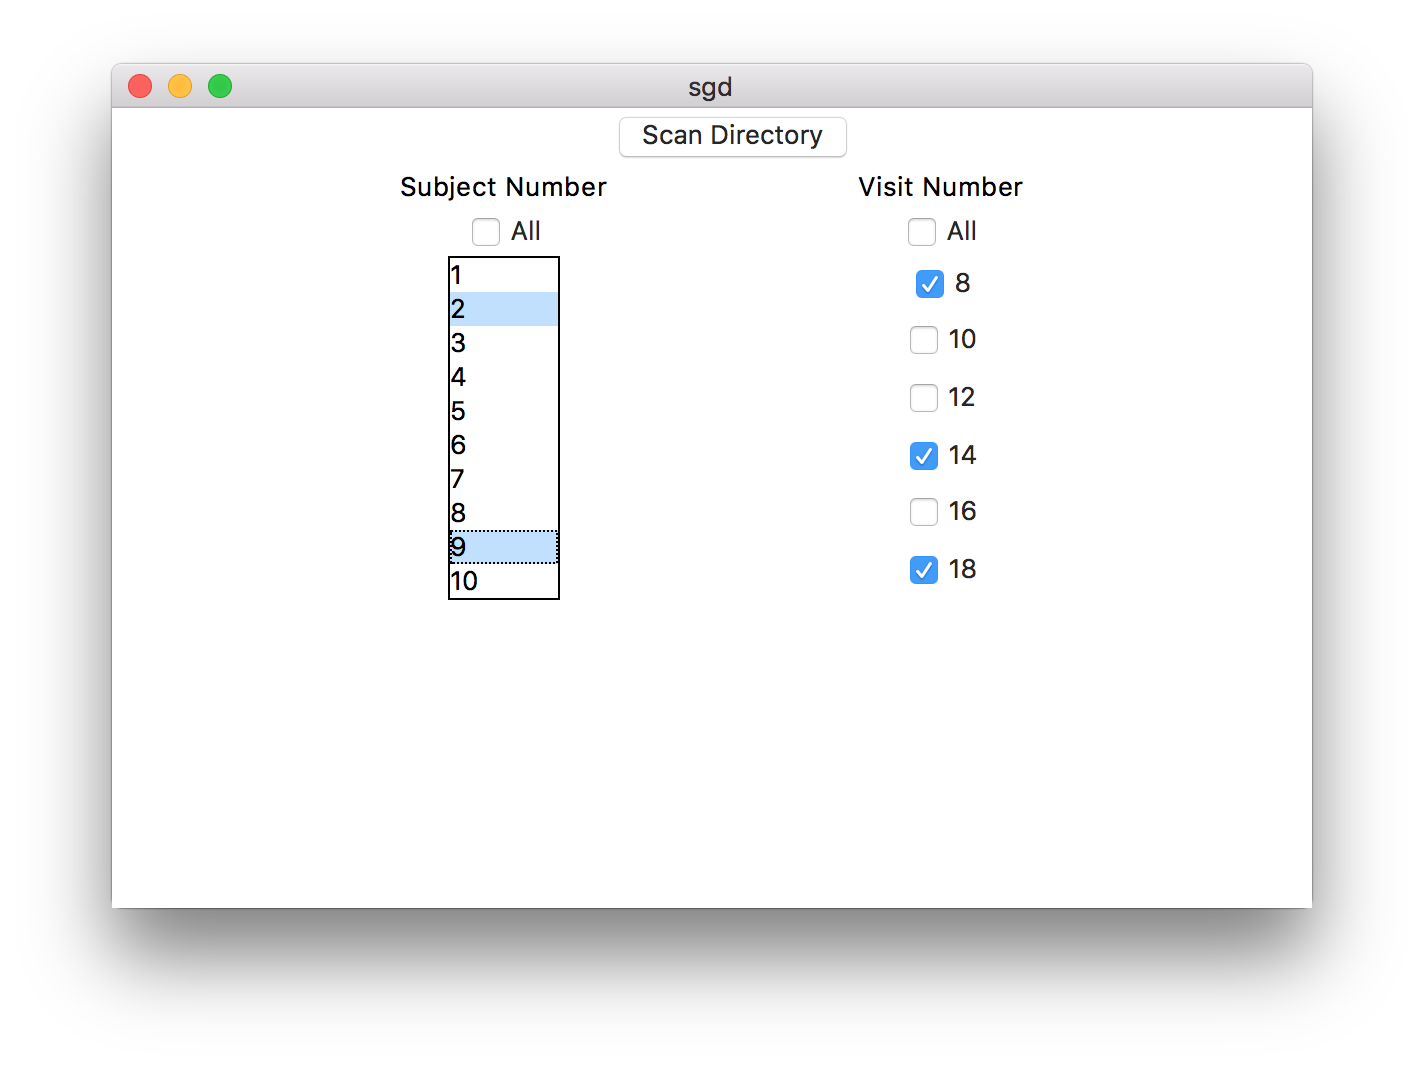
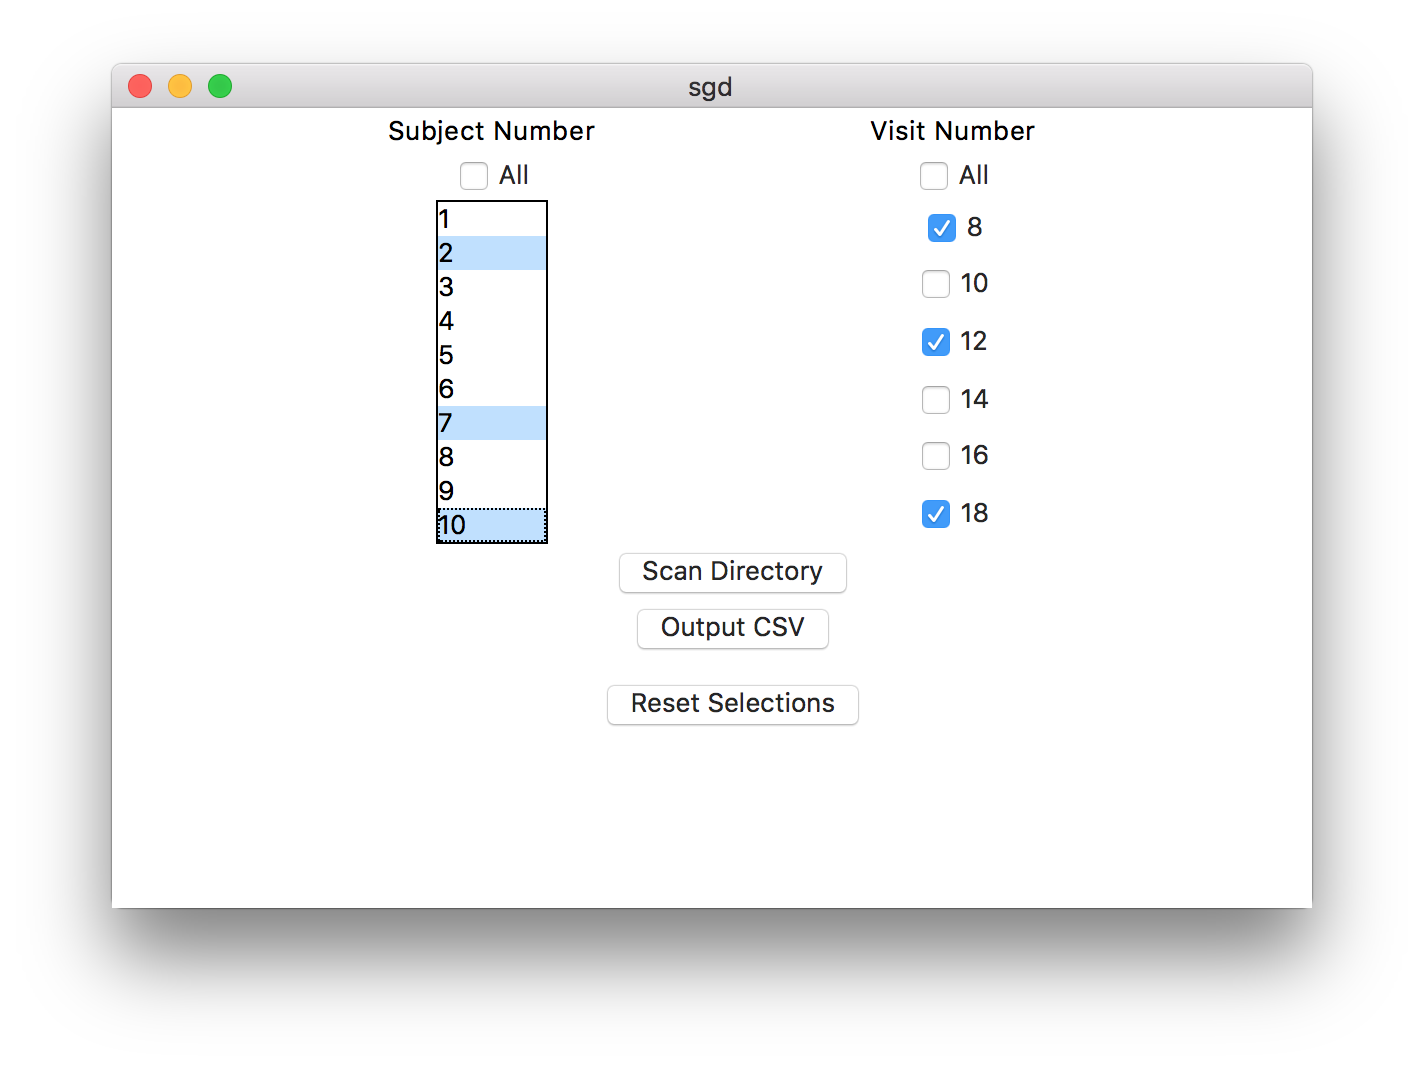
fixes #1

diff --git a/sgd.py b/sgd.py
@@ -2,6 +2,7 @@ from openpyxl import *
 
 from Tkinter import *
 import tkFileDialog
+import tkMessageBox
 
 import csv
 import os
@@ -22,10 +23,20 @@ class MainWindow():
         self.main_frame.pack()
 
         self.start_dir = ""
+        self.output_data = []
+        self.output_csv_path = ""
 
         self.start_dir_button = Button(self.main_frame,
                                     text="Scan Directory",
                                     command=self.set_start_dir)
+
+        self.output_csv_button = Button(self.main_frame,
+                                        text="Output CSV",
+                                        command=self.output_csv)
+
+        self.reset_selections_button = Button(self.main_frame,
+                                            text="Reset Selections",
+                                            command=self.reset_selections)
 
         self.start_dir_label = None # initialized dynamically
 
@@ -81,7 +92,9 @@ class MainWindow():
         self.visit_16_button.grid(row=10, column=2)
         self.visit_18_button.grid(row=11, column=2)
 
-        self.start_dir_button.grid(row=1,column=1)
+        self.start_dir_button.grid(row=14,column=1,columnspan=1)
+        self.output_csv_button.grid(row=15, column=1,columnspan=1)
+        self.reset_selections_button.grid(row=16,column=1,columnspan=1,pady=10)
 
         self.filename_regx = re.compile('\d{2}_\d{2}_stimuli\.xlsx')
 
@@ -92,26 +105,33 @@ class MainWindow():
         print "self.start_dir:  " + self.start_dir
         #self.show_start_dir_label()
         self.map_selections()
+        self.walk_tree(self.start_dir)
 
     def show_start_dir_label(self):
         self.start_dir_label = Label(self.main_frame,
                                     text="Scanning Directory: {}".format(self.start_dir))
         self.start_dir_label.grid(row=3, column=1)
 
-    def walk_tree(self):
+    def walk_tree(self, path):
         for root, dirs, files in os.walk(path):
             for file in files:
-                self.filename_regx.search(file)
+                #self.filename_regx.search(file)
                 if "_stimuli.xlsx" in file:
-                    read_stimuli_xml(os.path.join(root, file))
+                    pair = (file[0:2], file[3:5])
+                    if self.check_selection_map(pair):
+                        self.read_stimuli_xml(os.path.join(root, file))
 
     def parse_filename(self, file):
         prefix = self.filename_regx.search()
 
     def check_selection_map(self, pair):
-        """
+        if pair[0] not in self.selection_map['subject']:
+            return False
+        elif pair[1] not in self.selection_map['visit']:
+            return False
+        else:
+            return True
 
-        """
     def map_selections(self):
         selected_subjects = self.subject_num_list.curselection()
         for subject in selected_subjects:
@@ -134,28 +154,77 @@ class MainWindow():
         if self.visit_18.get():
             self.selection_map["visit"].append("18")
 
-        print self.selection_map
+        #print self.selection_map
 
     def set_all_subjects(self):
-        self.subject_num_list.select_set(0, END)
+        if len(self.subject_num_list.curselection()) > 0:
+            self.subject_num_list.select_clear(0, END)
+        else:
+            self.subject_num_list.select_set(0, END)
 
     def set_all_visits(self):
-        self.visit_8_button.select()
-        self.visit_10_button.select()
-        self.visit_12_button.select()
-        self.visit_14_button.select()
-        self.visit_16_button.select()
-        self.visit_18_button.select()
+        if self.visit_8.get():  # if they're already select, deselect them
+            self.visit_8_button.deselect()
+            self.visit_10_button.deselect()
+            self.visit_12_button.deselect()
+            self.visit_14_button.deselect()
+            self.visit_16_button.deselect()
+            self.visit_18_button.deselect()
+        else:
+            self.visit_8_button.select()
+            self.visit_10_button.select()
+            self.visit_12_button.select()
+            self.visit_14_button.select()
+            self.visit_16_button.select()
+            self.visit_18_button.select()
 
-def output_csv():
-    with open(output_csv_path, "wb") as file:
-        writer = csv.writer(file)
-        writer.writerow(["pair_alpha",
-                        "pair_words",
-                        "pair_kind",
-                        "SubjectNumber"])
+    def read_stimuli_xml(self, path):
+        wb = load_workbook(path)
+        sheet = wb.active
 
-        writer.writerows(output_data)
+        subject_number = os.path.split(path)[1][0:5]
+
+        for i in range(8):
+            temp = [None] * 4
+
+            pair = sheet["H{}".format(i+2)].value
+            pair_words = sheet["I{}".format(i+2)].value
+            pair_kind =sheet["J{}".format(i+2)].value
+
+            temp[0] = pair
+            temp[1] = pair_words
+            temp[2] = pair_kind
+            temp[3] = subject_number
+            self.output_data.append(temp)
+
+    def output_csv(self):
+        if not self.output_data:
+            tkMessageBox.showwarning("missing files",
+                                    "No files have been scanned yet.\
+                                     Scan directory first")
+            return
+        self.output_csv_path = tkFileDialog.asksaveasfilename(initialfile="output.csv")
+        with open(self.output_csv_path, "wb") as file:
+            writer = csv.writer(file)
+            writer.writerow(["pair_alpha",
+                            "pair_words",
+                            "pair_kind",
+                            "SubjectNumber"])
+            writer.writerows(self.output_data)
+
+    def reset_selections(self):
+        self.selection_map["subject"] = []
+        self.selection_map["visit"] = []
+
+        self.subject_num_list.select_clear(0, END)
+
+        self.visit_8_button.deselect()
+        self.visit_10_button.deselect()
+        self.visit_12_button.deselect()
+        self.visit_14_button.deselect()
+        self.visit_16_button.deselect()
+        self.visit_18_button.deselect()
+        #print self.selection_map
 
 def read_stimuli_xml(path):
     wb = load_workbook(path)
@@ -182,6 +251,7 @@ def walk_tree(path):
         for file in files:
             if "_stimuli.xlsx" in file:
                 read_stimuli_xml(os.path.join(root, file))
+
 
 if __name__ == "__main__":
 

diff --git a/README.md b/README.md
@@ -1,7 +1,5 @@
 # sgd (stimuli generated dictionary)
 
-<img src="/data/sgd-screenshot.png" width="450">
-
 This script walks a directory tree looking for files of the form AB_CD_stimuli.xlsx.
 It pulls the pair_alpha, pair_words, pair_kind, and subject_number from each file and fills them
 into an output csv file.
@@ -26,3 +24,6 @@ The /data directory has nested _stimuli.xlsx files that you can try the script o
 The csv output will be of the form:
 
 pair_alpha, pair_words, pair_kind, SubjectNumber
+
+
+<img src="/data/sgd-screenshot.png" width="550">
